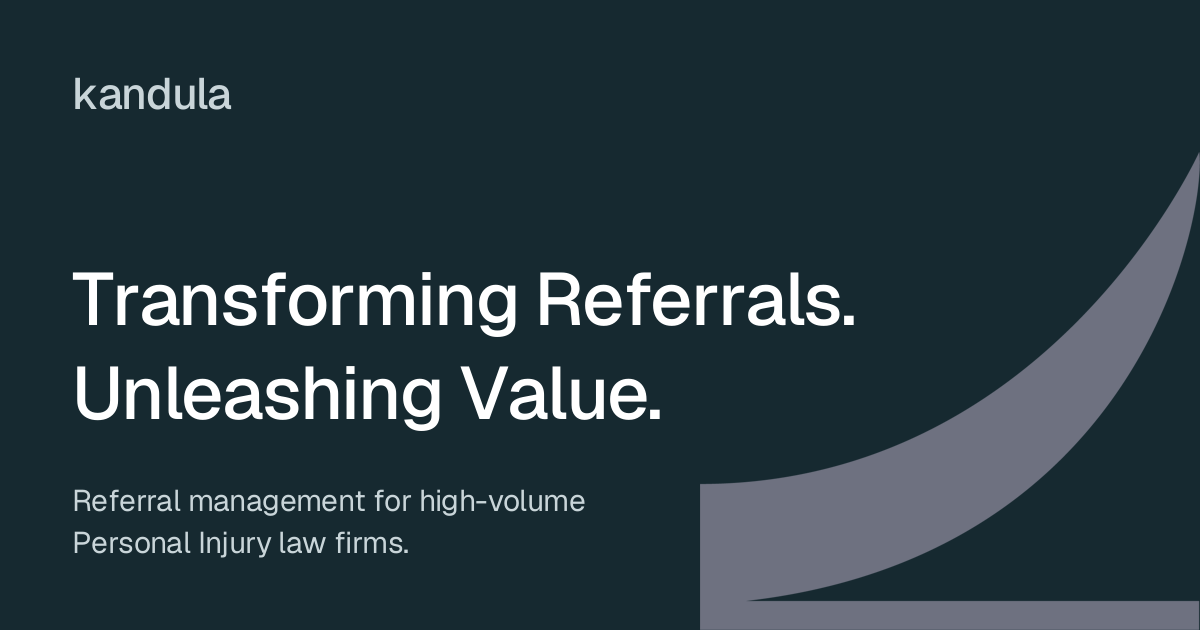
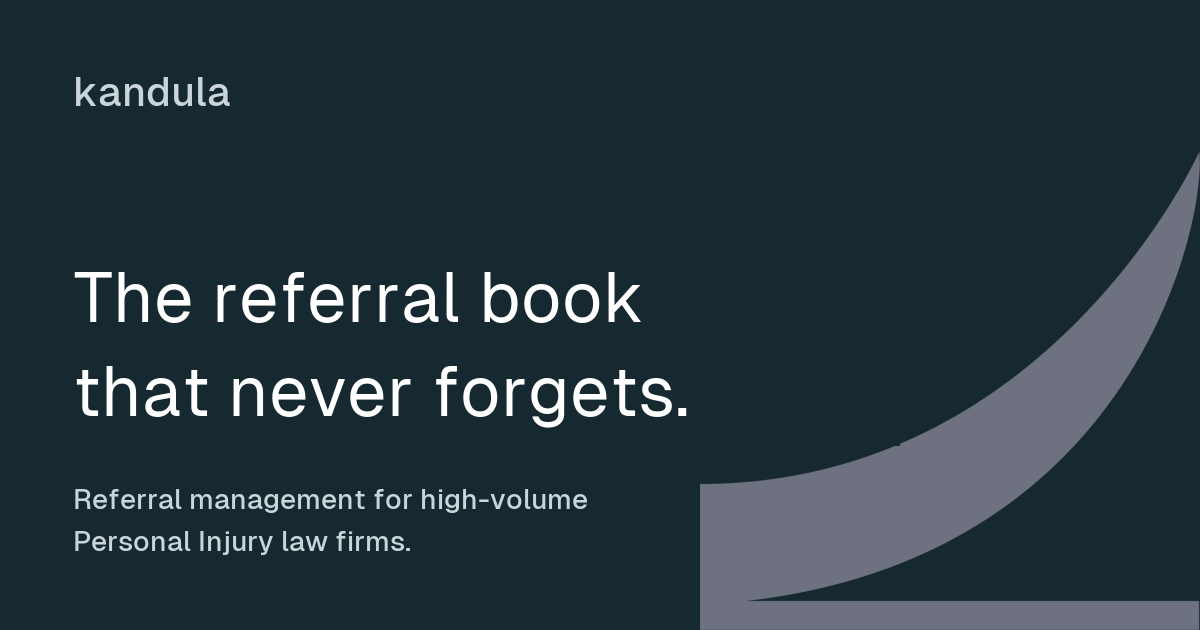
Hero and OG card carry the conference headline

diff --git a/index.html b/index.html
@@ -398,7 +398,7 @@
   </div>
   <div class="wrap hero-main">
     <div>
-      <h1>Transforming Referrals.<br>Unleashing Value.</h1>
+      <h1>The referral book<br>that never forgets.</h1>
       <p class="lede">Referral management for high-volume Personal Injury law firms.
       Every referred case, its status, and its value, in one place for the firm that
       sent it and the firm working it.</p>
